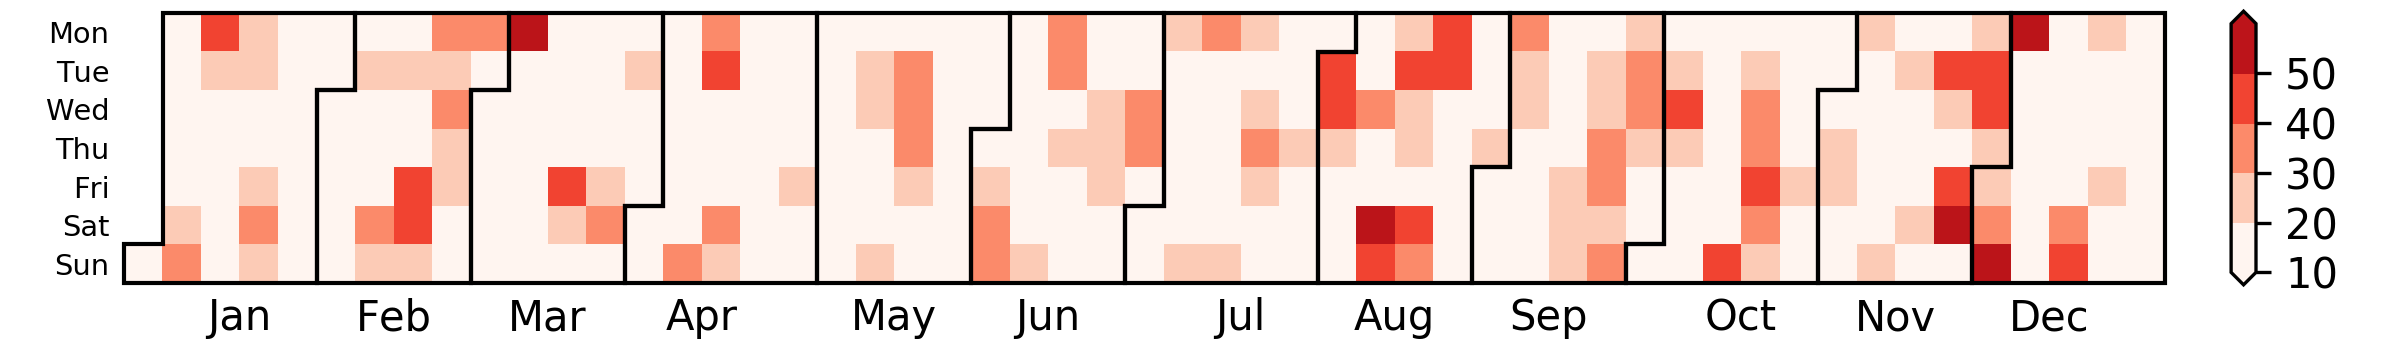
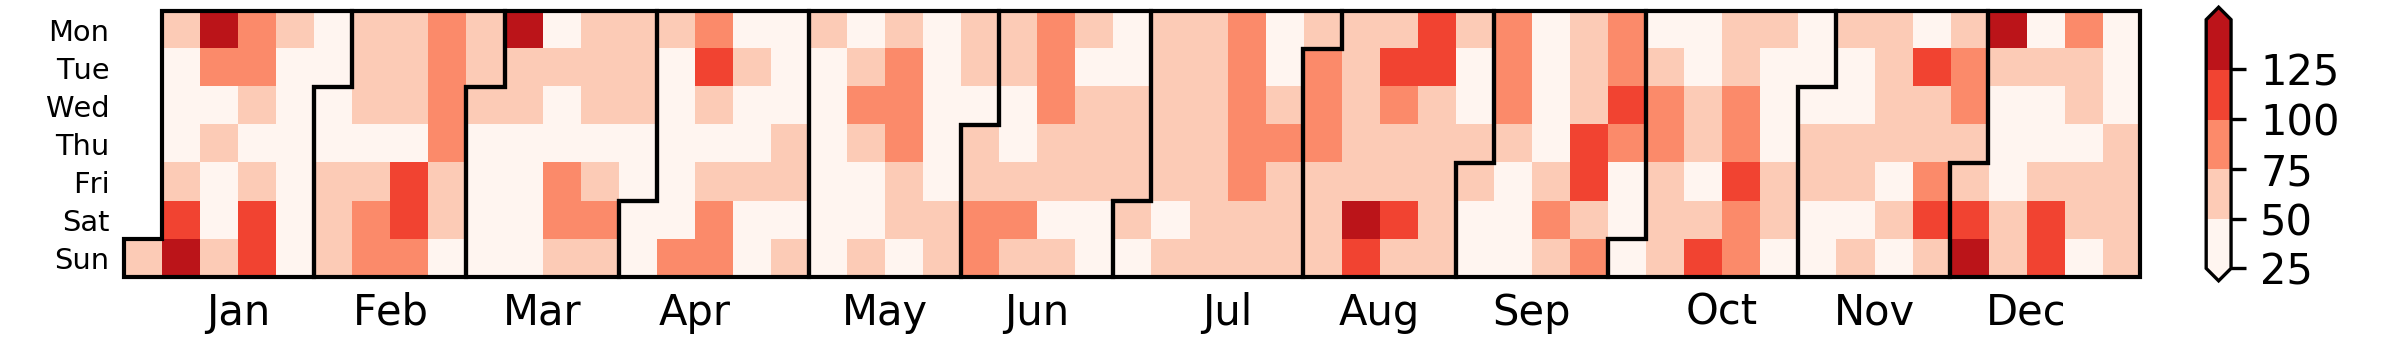
Update the analysis of user engagement.

diff --git a/analysis.html b/analysis.html
@@ -194,7 +194,7 @@
               </table>
             </div>
             <!----------------------------------------------------------------------------------->
-            <!-- <h2 class="add-top-margin">Analysis of User Engagement</h2>
+            <h2 class="add-top-margin">Analysis of User Engagement</h2>
             <hr>
             <p class="text">
               We divide all users into four types (enthusiasts, explorers, contributors, and observers) by using the number of smell reports and interaction events (from Google Analytics).
@@ -366,20 +366,15 @@
               </div>
             </div>
             <p class="text">
-              Our analysis of two metrics indicates that user engagement is highly related to the daily air quality.
-              The first metric shows the number of unique users for each day.
+              Our analysis of two metrics shows that user engagement is related to air quality.
+              The first metric means the number of unique users for each day.
               A darker color indicates a larger volume of unique users on that date.
-              The second metric shows the weighted air quality index (AQI) from three pollutants: particulate matter (PM), carbon monoxide (CO), and sulfur dioxide (SO<sub>2</sub>).
-              We compute the weighted AQI based on the sensor readings obtained from monitoring stations in Pittsburgh operated by the Allegheny County Health Department.
-              The formula is:
-            </p>
-            <img class="image center" src="http://latex.codecogs.com/svg.latex?f(\mathrm{PM})+3\cdot{f(\mathrm{CO})}+f(\mathrm{SO_2})" style="max-width: 200px;">
-            <p class="text">
-              where <img src="http://latex.codecogs.com/svg.latex?f" style="vertical-align: -0.2em;"> is the function that computes the AQI based on <a target="_blank" href="https://www3.epa.gov/airnow/aqi_brochure_02_14.pdf">the EPA guideline</a>,
-              and <img src="http://latex.codecogs.com/svg.latex?\mathrm{PM}" style="vertical-align: -0.05em;"> involves both PM<sub>2.5</sub> and PM<sub>10</sub>.
-              A darker color in the second metric indicates a higher weighted AQI.
-              The correlation between these two metrics (the number of unique users and the weighted air quality index per day) is 0.62 in 2019, 0.61 in 2018, and 0.55 in 2017.
-              This shows that air quality was a significant driver to engage our users in these three years.
+              The second metric shows the air quality index (AQI) from four pollutants: ozone (O<sub>3</sub>), particulate matter (PM<sub>2.5</sub> and PM<sub>10</sub>), carbon monoxide (CO), and sulfur dioxide (SO<sub>2</sub>).
+              The concentrations of the pollutants are obtained from monitoring stations in Pittsburgh operated by the Allegheny County Health Department.
+              We compute the AQI based on <a target="_blank" href="https://www3.epa.gov/airnow/aqi_brochure_02_14.pdf">the EPA guideline</a>.
+              A darker color in the second metric indicates a higher AQI.
+              The correlation between these two metrics (the number of unique users and the AQI) is 0.50 in 2019, 0.54 in 2018, and 0.44 in 2017.
+              This indicates that air quality was a moderate important driver to engage our users.
             </p>
             <div class="custom-tab">
               <div class="custom-tab-menu center">
@@ -393,7 +388,7 @@
                 </p>
                 <a class="image center" style="max-width: 810px;" href="img/user_heatmap_2019.png"><img src="img/user_heatmap_2019.png"></a>
                 <p class="text text-center graph-title">
-                  Weighted air quality index by date (2019)
+                  Air quality index by date (2019)
                 </p>
                 <a class="image center" style="max-width: 800px;" href="img/aqi_heatmap_2019.png"><img src="img/aqi_heatmap_2019.png"></a>
               </div>
@@ -403,7 +398,7 @@
                 </p>
                 <a class="image center" style="max-width: 810px;" href="img/user_heatmap_2018.png"><img src="img/user_heatmap_2018.png"></a>
                 <p class="text text-center graph-title">
-                  Weighted air quality index by date (2018)
+                  Air quality index by date (2018)
                 </p>
                 <a class="image center" style="max-width: 800px;" href="img/aqi_heatmap_2018.png"><img src="img/aqi_heatmap_2018.png"></a>
               </div>
@@ -413,11 +408,11 @@
                 </p>
                 <a class="image center" style="max-width: 810px;" href="img/user_heatmap_2017.png"><img src="img/user_heatmap_2017.png"></a>
                 <p class="text text-center graph-title">
-                  Weighted air quality index by date (2017)
+                  Air quality index by date (2017)
                 </p>
                 <a class="image center" style="max-width: 800px;" href="img/aqi_heatmap_2017.png"><img src="img/aqi_heatmap_2017.png"></a>
               </div>
-            </div> -->
+            </div>
             <!----------------------------------------------------------------------------------->
             <h2 class="add-top-margin">Distribution of Smell Reports Aggregated by Time</h2>
             <hr>
